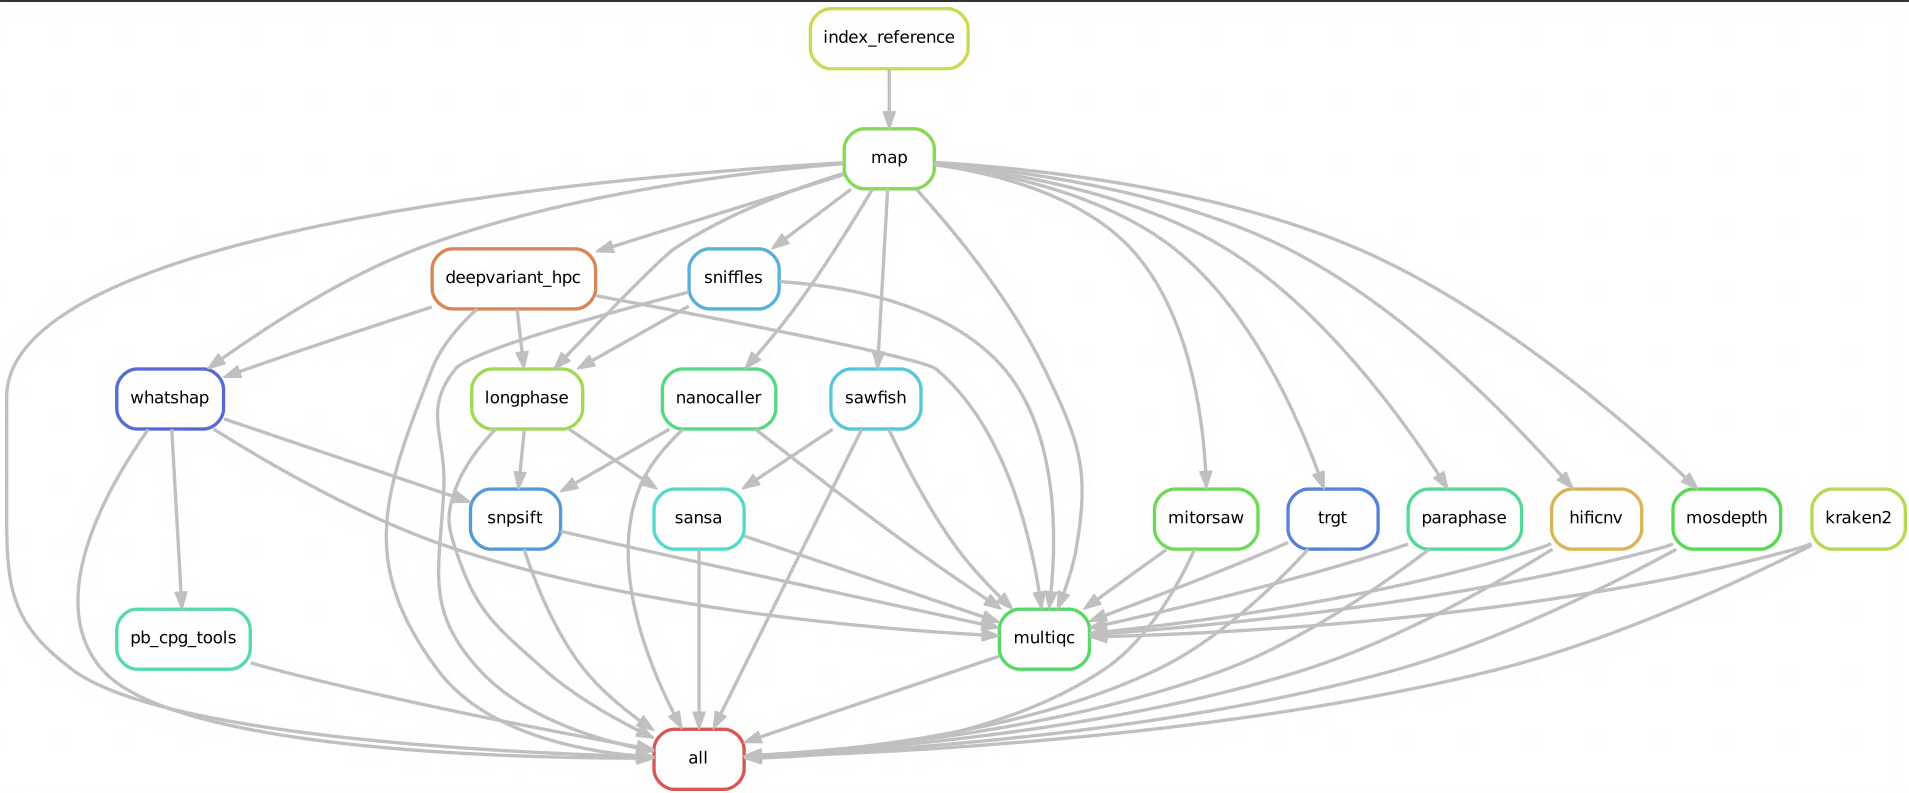
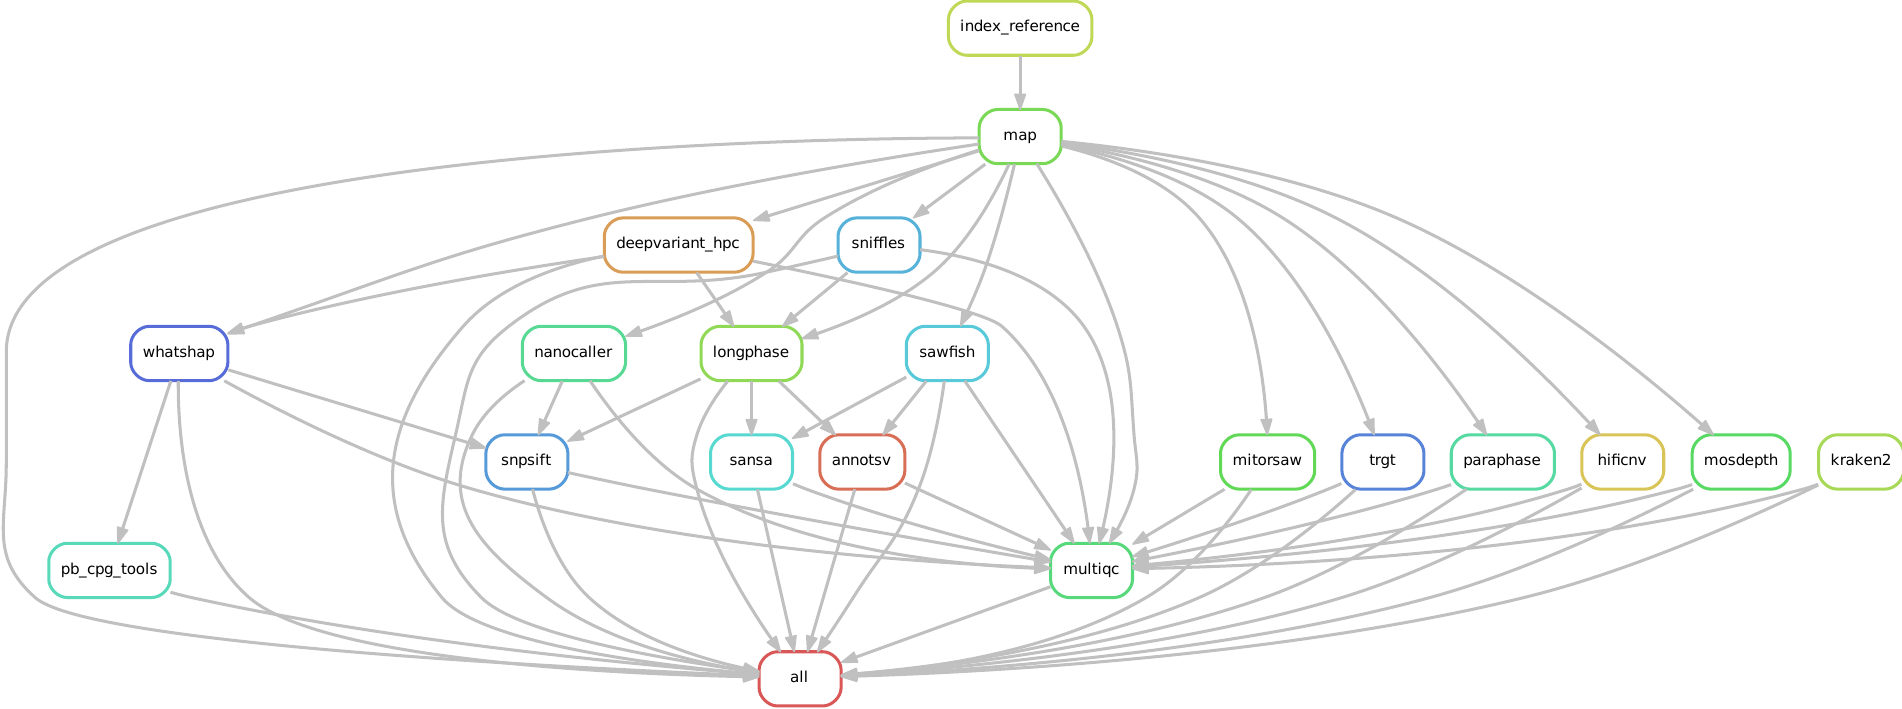
fixing annotsv and nanocaller, removing conda base channel

diff --git a/README.md b/README.md
@@ -26,6 +26,7 @@ __!!THIS PIPLINE IS IN-DEVELOPMENT AND EXPERIMENTAL, USE AT YOUR OWN RISK!!__
 - demultiplexing of input as option, will not split the files per barcode.
 - for now one .bam per sample
 - NanoCaller for phased snp/indel calls
+- annotation of snp and svs with snsift, sansa and annotsv if enabled in the config.yaml (need specific input, see config.yaml)
 
 ## how to run
 - make sure you have a conda environment active with snakemake9+ (called smk9 in the runPipeline_local.sh)
@@ -51,7 +52,6 @@ This DAG was made:
 - deepvariant enabled through config.yaml setting
 - kraken enabled through config.yaml setting
 
-
 ![alt text](dag.png)
 
 
@@ -71,7 +71,7 @@ This DAG was made:
         - sawfish sv / cnv 
         - svs from sniffles phased with longphase
         - snp / svs / indels from nanocaller
-    - phased snps and svs get annotated with snpsift and sansa
+    - phased snps and svs get annotated with snpsift and sansa and annotsv if enabled
 - snakemake report, rulegraph, copy of samplesheet and config.yaml with timestamp
 
 
